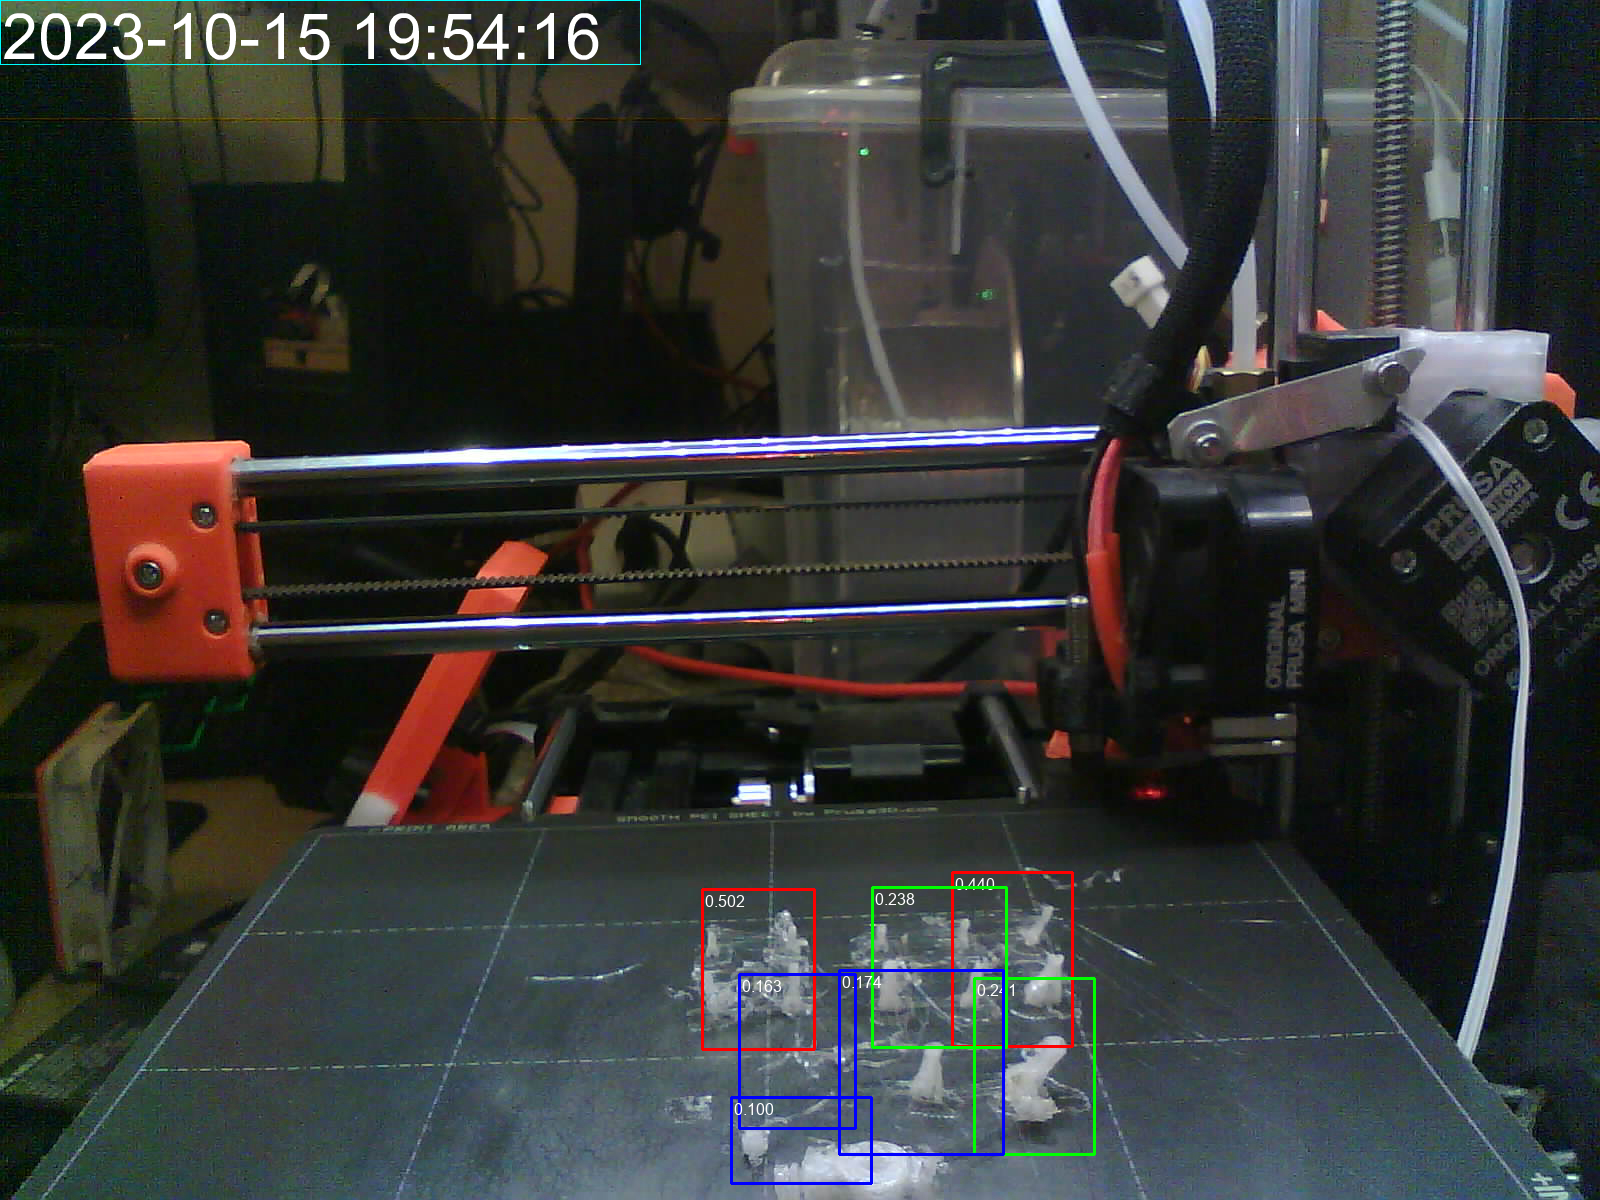
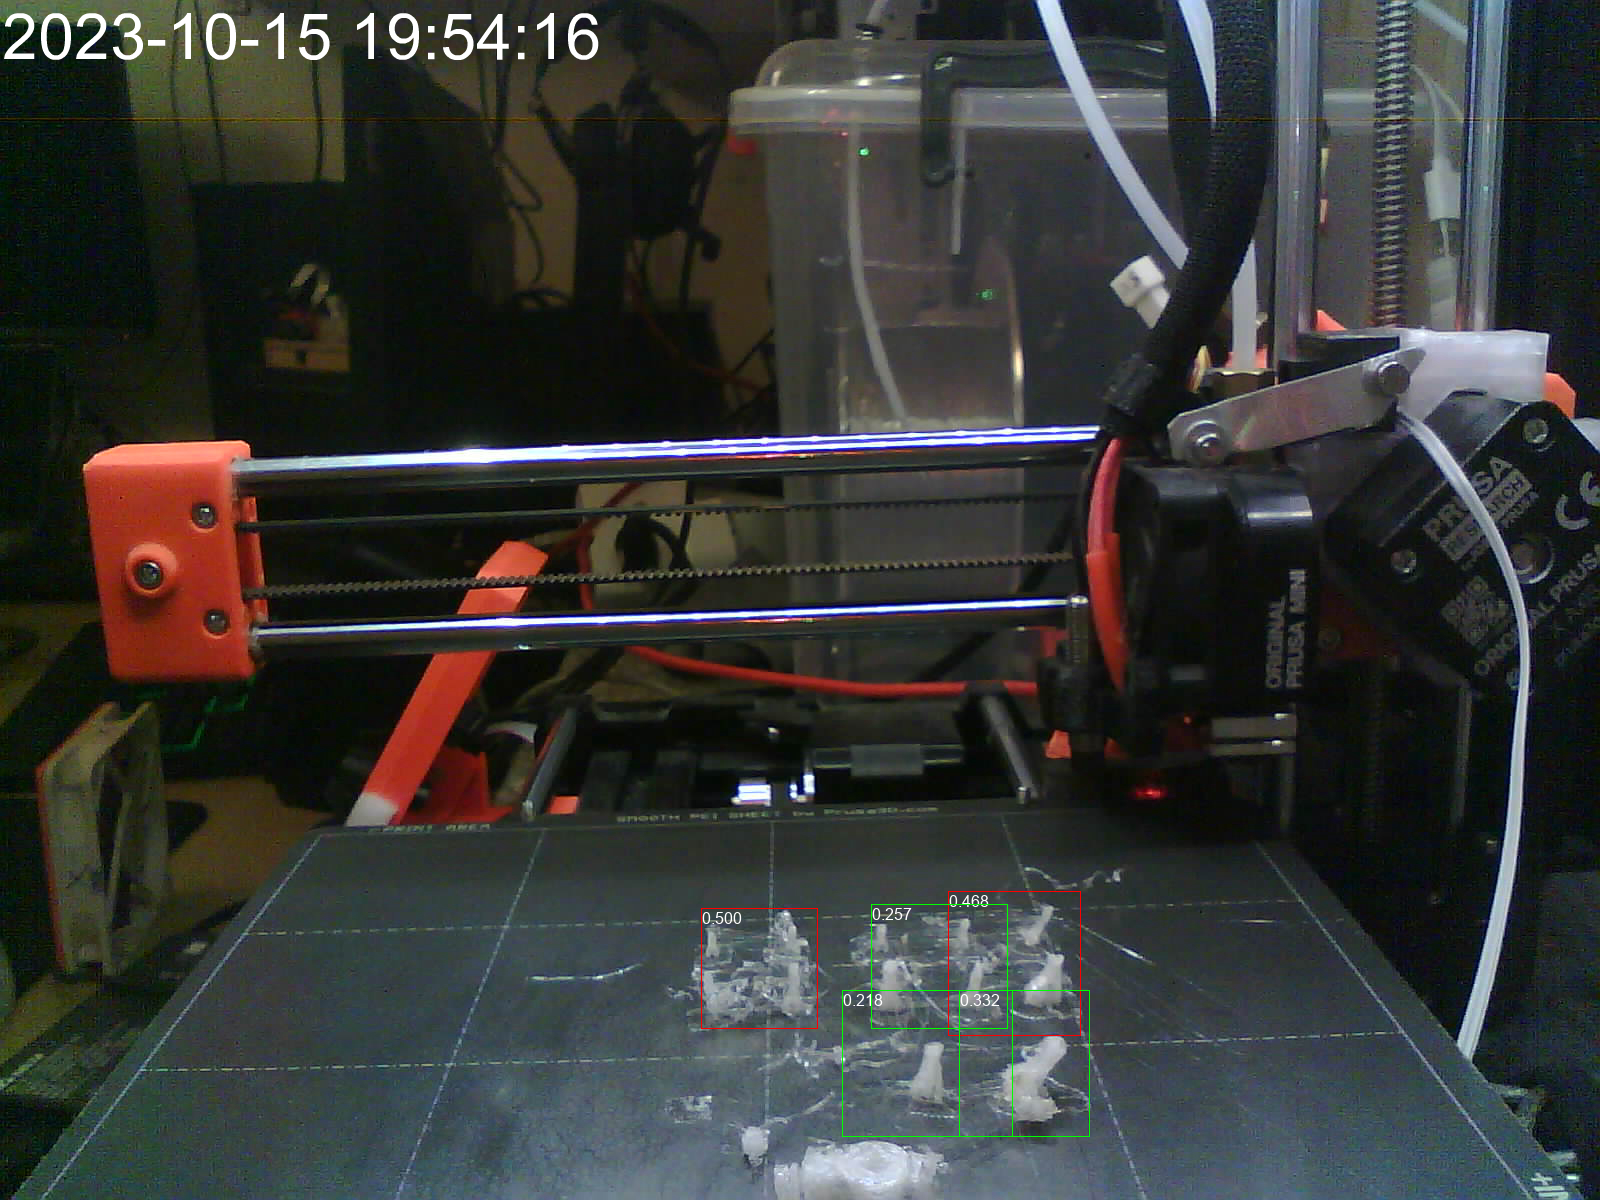
Update docs

Changed region(s): [[0.4375, 0.8017, 0.6875, 0.9867], [0.5312, 0.7092, 0.625, 0.7708], [0.4375, 0.74, 0.5, 0.7708]]

diff --git a/obico-ml-api-only/README.md b/obico-ml-api-only/README.md
@@ -46,6 +46,14 @@ pip install -r requirements.txt
 
 ```
 
+## Draw basic detecions
+
+![example](./example.png)
+
+(No the printer is not skewed, this is the effect of camera lens distortion because it is not perpendicular to the bed)
+
+Backward compatible behaviour.
+
 ### Draw detections with preview
 
 For pure example purposes replace `https://bagno.hlds.pl/obico/bad_1.jpg` with the url to the image from the camera.
@@ -68,8 +76,9 @@ DEBUG:urllib3.connectionpool:http://127.0.0.1:3333 "GET /p/?img=https%3A%2F%2Fba
 ```
 <!-- markdownlint-enable html line-length -->
 
-![example](./example.png)
-(No the printer is not skewed, this is the effect of camera lens distortion because it is not perpendicular to the bed)
+![example](./example_0461c8.png)
+
+With custom ignored areas.
 
 ### Draw detections without preview
 
@@ -84,7 +93,7 @@ python3 draw_detections.py --api http://127.0.0.1:3333 https://bagno.hlds.pl/obi
 and it should produce output such as:
 
 - [out.json](./out.json)
-- [out.jpg](./out.jpg)
+- ![out.jpg](./out.jpg)
 
 With additional options `--show-below-treshold`:
 <!-- markdownlint-disable html line-length -->
@@ -95,8 +104,8 @@ python3 draw_detections.py --api http://127.0.0.1:3333 https://bagno.hlds.pl/obi
 
 you should see blue areas that are below treshold:
 
-- [out.json](./out-below.json)
-- [out.jpg](./out-below.jpg)
+- [out-below.json](./out-below.json)
+- ![out-below.jpg](./out-below.jpg)
 
 With option `--treshold=0.4`:
 <!-- markdownlint-disable html line-length -->
@@ -107,8 +116,8 @@ python3 draw_detections.py --api http://127.0.0.1:3333 https://bagno.hlds.pl/obi
 
 You will see only specific areas:
 
-- [out.json](./out-t04.json)
-- [out.jpg](./out-t04.jpg)
+- [out-t04.json](./out-t04.json)
+- ![out-t04.jpg](./out-t04.jpg)
 
 ### Pass on ignored regions
 
